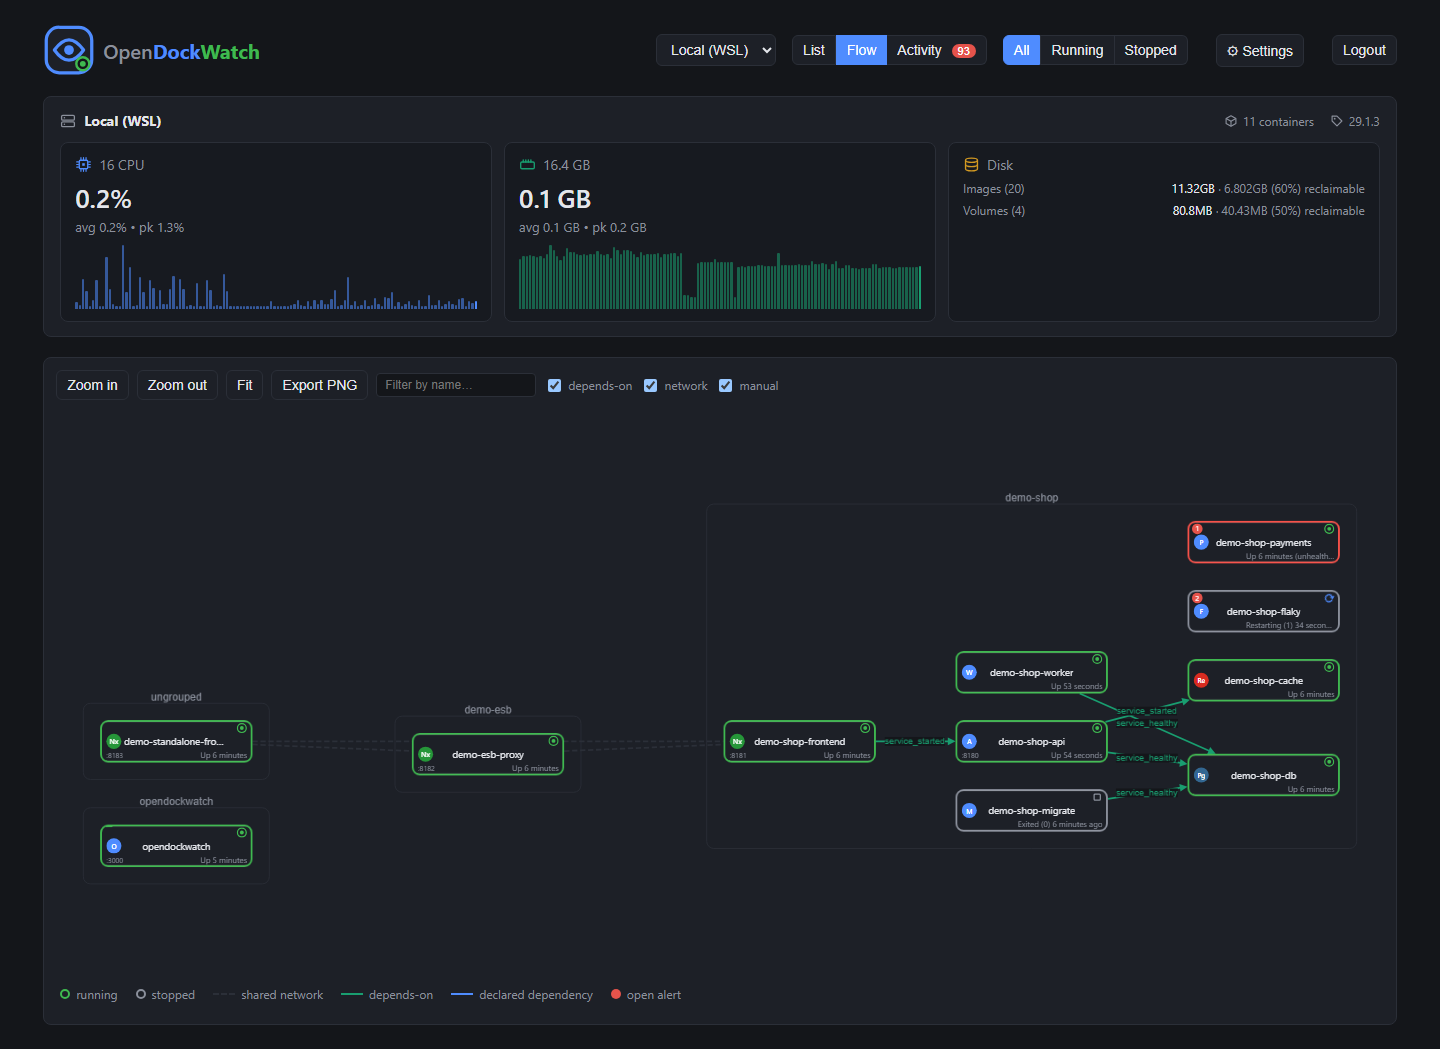
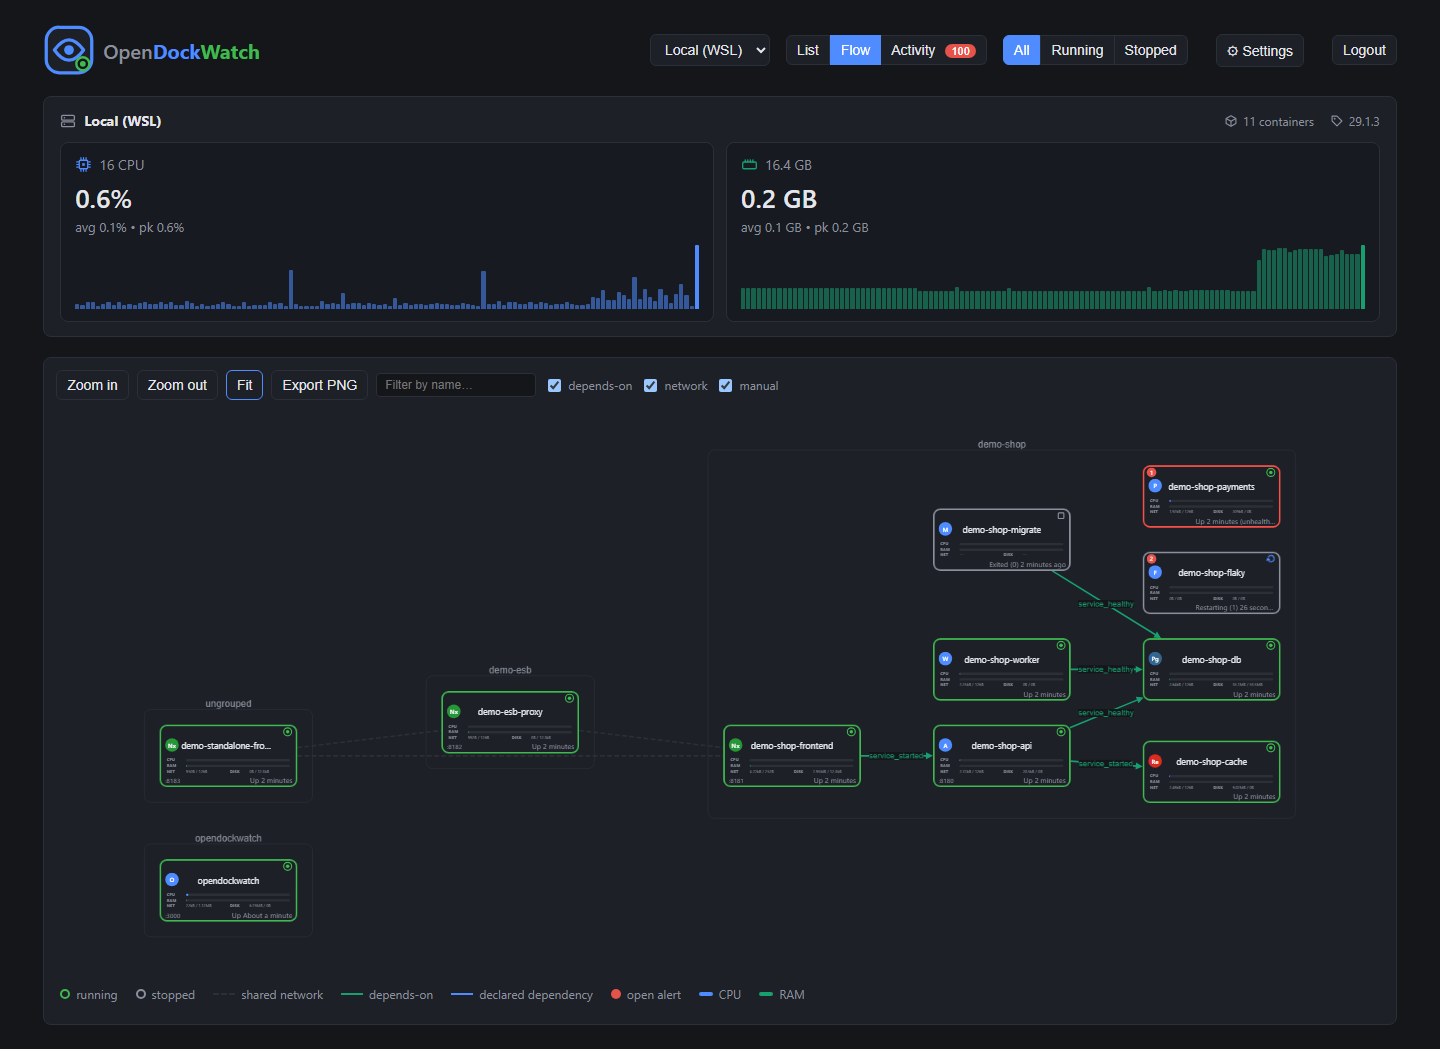
Updated readme with new  screenshots and added events and alerts screenshot

diff --git a/README.md b/README.md
@@ -5,12 +5,13 @@ A small self-hosted Docker dashboard: containers grouped by Compose project, CPU
 ## Features
 
 - **List view** — containers grouped by `docker compose` project (collapsible), with live CPU/memory columns and Start/Stop/Restart actions. Filter by All / Running / Stopped.
-- **Flow view** — a graph of containers (grouped visually by compose project) with zoom/fit controls, a name filter, per-edge-kind toggles, and PNG export. Nodes show a state indicator (running / restarting / paused / stopped) in the top-left corner, an uptime/status string in the bottom-right, live CPU/mem bars, published ports, and a badge for open alerts. Selecting a node dims everything outside its immediate neighborhood. Edges are drawn three ways:
+- **Flow view** — a graph of containers (grouped visually by compose project) with zoom/fit controls, a name filter, per-edge-kind toggles, and PNG export. Nodes show a state indicator (running / restarting / paused / stopped) in the top-left corner, an uptime/status string in the bottom-right, live CPU/RAM bars, network/disk I/O, published ports, and a badge for open alerts. Selecting a node dims everything outside its immediate neighborhood. Edges are drawn three ways:
   - **Depends-on**: read straight from Compose's own `com.docker.compose.depends_on` label (service + startup condition), so it reflects the real `depends_on:` block — no compose file parsing needed, and it works for remote SSH hosts too.
   - **Auto (network)**: containers sharing a custom Docker network are connected — but only across different compose projects (or when at least one side isn't grouped). Same-project network edges are suppressed, since the group box already conveys that relationship.
   - **Manual**: declared in `hosts.json` (`edges: [{ from, to, label }]`) for relationships Docker can't see itself — e.g. a non-dockerized frontend calling a backend API, or cross-project dependencies.
 - **Details panel** — clicking a container (in either view) opens a side panel with status, image, CPU/mem, ports, networks, actions, and a small live log preview (last 100 lines).
 - **Log pop-out** — expand the preview into a full-width bottom panel with a tail-size selector (100/200/1000/5000 lines — capped, never loads unbounded history) and a live text filter. The current tail can also be downloaded as a `.txt` file.
+- **Activity view** — alerts and the raw container event log (start/stop/die/oom, etc.) side by side, with an unread-alert count badge on the tab itself. See [Alerts](#alerts) below for the rule list and webhook setup.
 
 ## Screenshots
 
@@ -18,7 +19,7 @@ A small self-hosted Docker dashboard: containers grouped by Compose project, CPU
 
 ![List view, containers grouped by Compose project](screenshots/list-view.png)
 
-**Flow view** — a topology graph of containers
+**Flow view** — a topology graph of containers, with live CPU/RAM/network/disk stats and open-alert badges on each node
 
 ![Flow view, a topology graph of containers](screenshots/flow-view.png)
 
@@ -29,6 +30,10 @@ A small self-hosted Docker dashboard: containers grouped by Compose project, CPU
 **Log viewer** — full-width pop-out with level filters and download
 
 ![Full-width log viewer pop-out with level filters](screenshots/log-viewer.png)
+
+**Activity view** — alerts and the container event log side by side
+
+![Activity view, alerts and the container event log](screenshots/activity-view.png)
 
 ## How it works
 